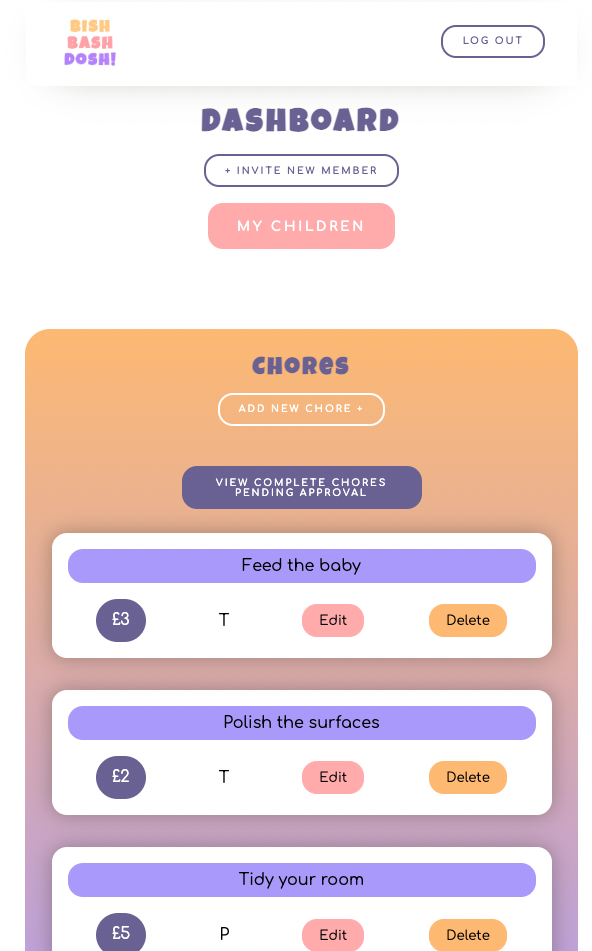
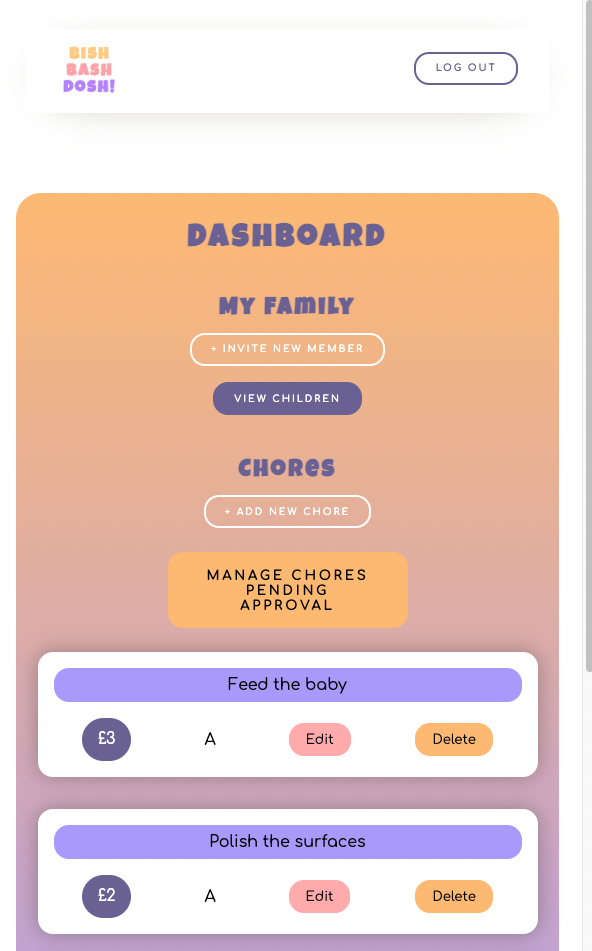
styling

diff --git a/chores-app/src/components/ParentDashboard.js b/chores-app/src/components/ParentDashboard.js
@@ -26,33 +26,34 @@ const ParentDashboard = () => {
   return (
     <div className="container parent-dashboard-container">
       <h1>Dashboard</h1>
-      <button type="button" className="btn btn-stroke_purple btn-narrow">
+      <h2>My Family</h2>
+      <button type="button" className="btn btn-narrow btn-stroke_white">
         <a href="/newmember">+ Invite new member</a>
       </button>
-      <button type="button" className="btn btn-fill_pink">
-        <a href="/listofchildren">My Children</a>
+      <button type="button" className="btn btn-narrow btn-fill_purple">
+        <a href="/listofchildren">View Children</a>
       </button>
-      <div className="container parent-dashboard-chores-container">
-        <h2>Chores</h2>
+      <h2>Chores</h2>
+      <div className="btn-container">
         <button type="button" className="btn btn-narrow btn-stroke_white">
-          <a href="/addchore">Add new chore +</a>
+          <a href="/addchore">+ Add new chore</a>
         </button>
-        <button type="button" className="btn btn-narrow btn-fill_purple">
-          <a href="/approvechores">View complete chores pending approval</a>
+        <button type="button" className="btn btn-fill_peach">
+          <a href="/approvechores">Manage chores pending approval</a>
         </button>
-        {/* mapping function to go through the chores list and render them. */}
-        {chores.map((chore) => (
-          <ChoreCard
-            key={chore.choreID}
-            name={chore.name}
-            price={chore.price}
-            status={chore.status}
-            choreID={chore.choreID}
-            choreOwner={chore.owner}
-            component="ParentDashboard"
-          />
-        ))}
       </div>
+      {/* mapping function to go through the chores list and render them. */}
+      {chores.map((chore) => (
+        <ChoreCard
+          key={chore.choreID}
+          name={chore.name}
+          price={chore.price}
+          status={chore.status}
+          choreID={chore.choreID}
+          choreOwner={chore.owner}
+          component="ParentDashboard"
+        />
+      ))}
       <div />
     </div>
   );

diff --git a/chores-app/src/styles/ParentDashboard.css b/chores-app/src/styles/ParentDashboard.css
@@ -1,14 +1,8 @@
-.parent-dashboard-container {
-  display: flex;
-  flex-direction: column;
-  align-items: center;
-}
-
-.parent-dashboard-container .btn:nth-of-type(2) {
+/* .parent-dashboard-container .btn:nth-of-type(2) {
 margin-top: 1rem;
-}
+} */
 
-.parent-dashboard-chores-container {
+.parent-dashboard-container {
   display: flex;
   flex-direction: column;
   align-items: center;
@@ -22,11 +16,18 @@ margin-top: 1rem;
   margin: 5rem;
 }
 
-.parent-dashboard-chores-container h2 {
+.parent-dashboard-container h2 {
   color: var(--purple-dark);
   text-align: center;
 }
 
-.parent-dashboard-chores-container .btn-narrow {
+.parent-dashboard-container .btn-narrow {
   margin-bottom: 1.5rem;
+}
+
+.btn-container {
+  display: flex;
+  flex-direction: column;
+  margin-bottom: 1.5rem;
+
 }

diff --git a/chores-app/src/styles/App.css b/chores-app/src/styles/App.css
@@ -100,6 +100,14 @@ h2 {
   background-color: var(--pink-dark);
   border: 2px solid var(--pink-dark);
 }
+.btn-fill_peach {
+  background-color: var(--peach);
+  border: 2px solid var(--peach);
+}
+.btn-fill_peach:hover {
+  background-color: var(--peach-dark);
+  border: 2px solid var(--peach-dark);
+}
 
 .btn-stroke_purple {
   background-color: transparent;

diff --git a/chores-app/README.md b/chores-app/README.md
@@ -3,12 +3,19 @@ This app is designed to help a family get their chores done and keep the peace w
 This is the repository for the front end of the application, the back-end can be found here: https://github.com/LydiaCodes22/chores-app-back-end.
 
 ## Screenshots
-![screenshot of welcome page](./src/images/screenshots/welcomePage.png "The welcome page") 
-![screenshot of the parent dashboard](./src/images/screenshots/parentDashboard.png "The parents' dashboard") 
-![screenshot of the edit chore screen](./src/images/screenshots/editChore.png "The edit chore screen") 
-![screenshot of the approve chore screen](./src/images/screenshots/approveChores.png "The approve chore screen") 
-![screenshot of the child dashboard](./src/images/screenshots/childDashboard.png "The childrens' dashboard") 
-![screenshot of the invite new member screen](./src/images/screenshots/inviteNewMember.png "The screen to invite a new member") 
+The welcome page 
+![screenshot of welcome page](./src/images/screenshots/welcomePage.png "The welcome page") \
+The parents' dashboard
+![screenshot of the parent dashboard](./src/images/screenshots/parentDashboard.png "The parents' dashboard") \
+The edit chore screen
+![screenshot of the edit chore screen](./src/images/screenshots/editChore.png "The edit chore screen") \
+The approve chore screen
+![screenshot of the approve chore screen](./src/images/screenshots/approveChores.png "The approve chore screen") \
+The childrens' dashboard
+![screenshot of the child dashboard](./src/images/screenshots/childDashboard.png "The childrens' dashboard")\
+ The screen to invite a new member
+![screenshot of the invite new member screen](./src/images/screenshots/inviteNewMember.png "The screen to invite a new member") \
+The screen showing the children the available chores
 ![screenshot of the screen showing the chores available for children to take](./src/images/screenshots/availableChores.png "The screen showing the children the available chores") 
 
 
